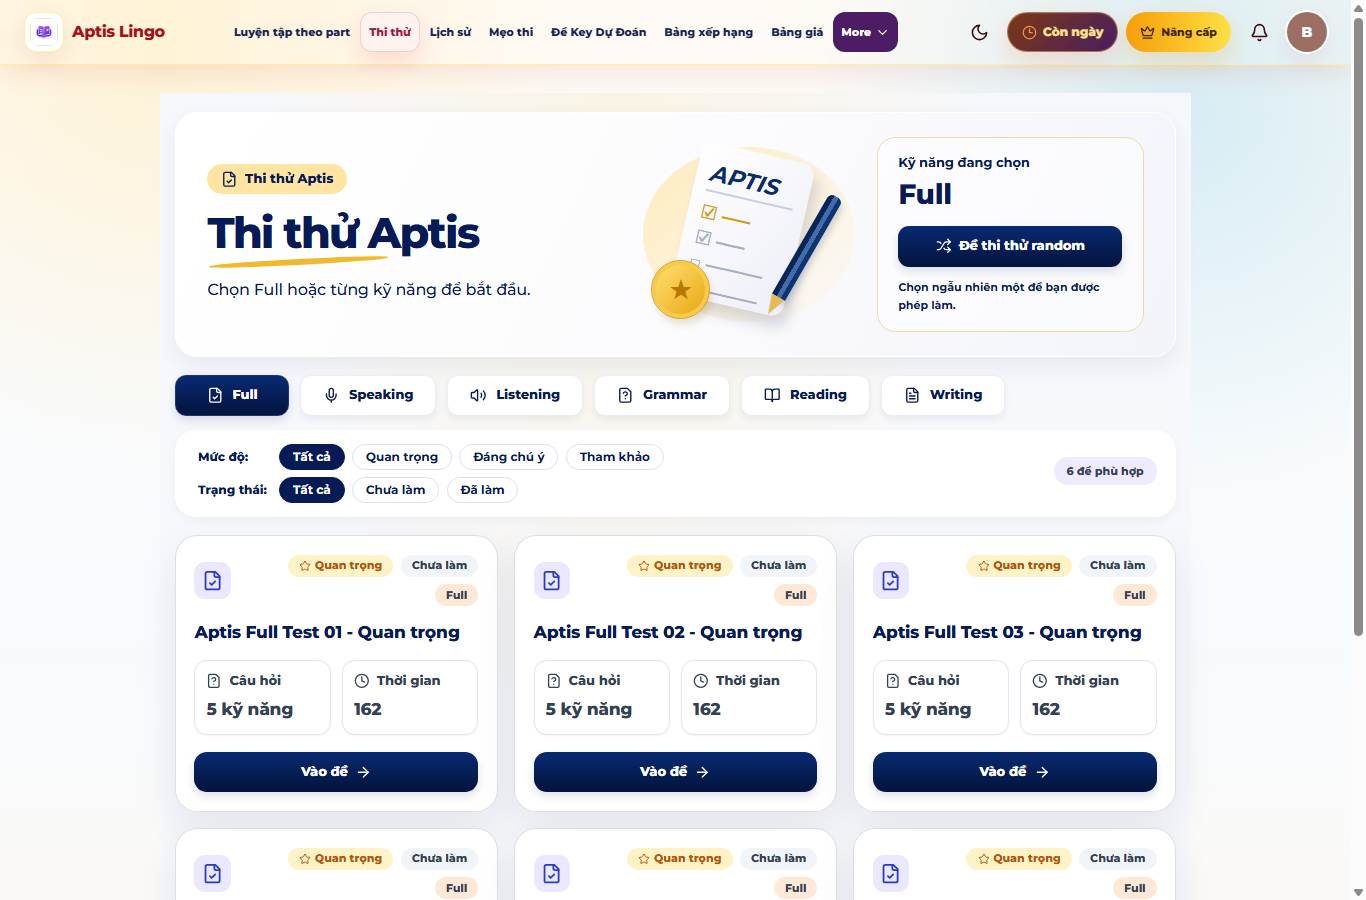
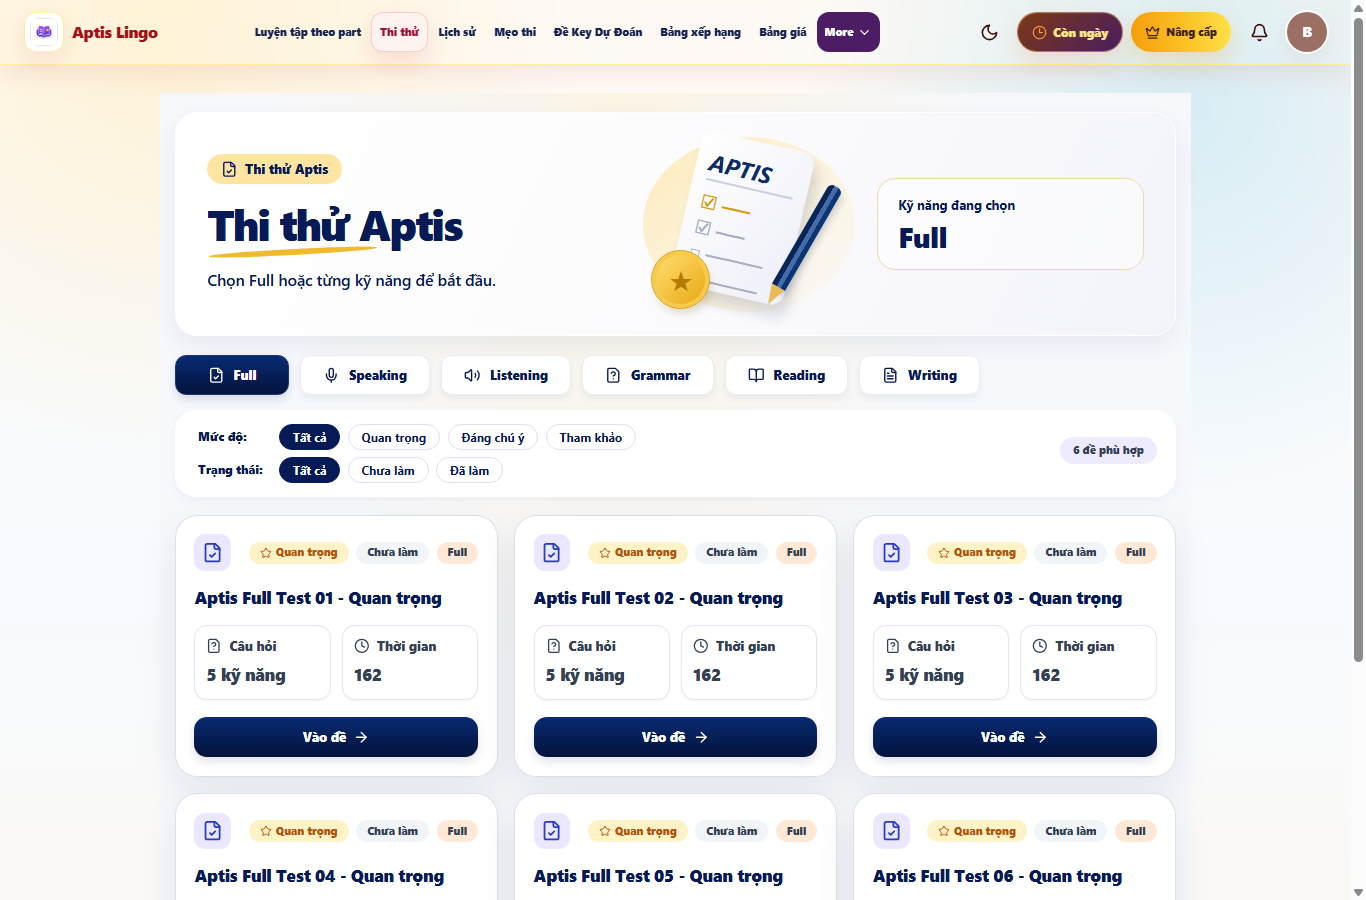
bangdiem

diff --git a/frontend/src/pages/student/MockTests.tsx b/frontend/src/pages/student/MockTests.tsx
@@ -46,7 +46,7 @@ import { Link, NavLink, useNavigate, useSearchParams } from 'react-router-dom';
 import { api, unwrap } from '../../api/client';
 import { useAuthStore } from '../../store/authStore';
 import type { MockTestResult, Submission, Question, SubscriptionResponse, Test } from '../../types';
-import { hasCompletedMockCard, mockCardPriority, mockPriorityLabels, selectFreePlacementCard, type MockPriority } from '../../utils/mockTestFilters';
+import { hasCompletedMockCard, mockCardPriority, mockPriorityLabels, readingPeopleWithNames, selectFreePlacementCard, type MockPriority } from '../../utils/mockTestFilters';
 import { getSubscriptionStatus, saveSubscriptionUntil } from '../../utils/subscription';
 import { repairUserText } from '../../utils/textRepair';
 import './mock-light.css';
@@ -2406,7 +2406,7 @@ function getReadingTestDataFromCard(card?: MockCard | null): ReadingTestData {
     ?? String(part3Rows[0]?.leftTitle ?? '').trim();
   const forumIntro = forumIntroText || undefined;
   const fallbackOpinion = fallbackReadingOpinion();
-  const parsedPeople = peopleFromReadingContext(context);
+  const parsedPeople = readingPeopleWithNames(peopleFromReadingContext(context), asStringArray(part3Rows[0]?.options), forumAnswers);
   const opinion = {
     people: parsedPeople.length > 0 ? parsedPeople : fallbackOpinion.people,
     questions: forumQuestions.length > 0 ? forumQuestions : fallbackOpinion.questions,
@@ -3141,7 +3141,7 @@ function scoreReadingAnswers(
     return question.correctOrder.filter((answer, answerIndex) => sameAnswer(userAnswers[answerIndex], answer)).length;
   });
   const cohesionCorrect = cohesionCorrectCounts.reduce((sum, count) => sum + count, 0);
-  const opinionCorrect = data.opinion.correctAnswers.filter((answer, index) => sameAnswer(opinionAnswers[index], answer)).length;
+  const opinionCorrect = data.opinion.correctAnswers.filter((answer, index) => sameAnswer(resolveOptionLabel(opinionAnswers[index] ?? '', data.opinion.people.map(person => person.label)), answer)).length;
   const longCorrect = data.long.correctAnswers.filter((answer, index) => sameAnswer(longAnswers[index], answer)).length;
   const gapTotal = data.gaps.length;
   const cohesionTotal = data.cohesion.reduce((sum, question) => sum + question.correctOrder.length, 0);
@@ -3194,7 +3194,7 @@ function savedReadingReview(data: ReadingTestData, gapAnswers: Record<number, st
       title: `Part ${questionIndex + 2} - Text Cohesion`,
       rows: question.correctOrder.map((answer, index) => savedReviewRow(`${question.title} - Vị trí ${index + 1}`, cohesionAnswers[questionIndex]?.[index], answer))
     })),
-    { title: 'Part 3 - Opinion Matching', rows: data.opinion.questions.map((question, index) => savedReviewRow(question, opinionAnswers[index], data.opinion.correctAnswers[index])) },
+    { title: 'Part 3 - Opinion Matching', rows: data.opinion.questions.map((question, index) => savedReviewRow(question, resolveOptionLabel(opinionAnswers[index] ?? '', data.opinion.people.map(person => person.label)), data.opinion.correctAnswers[index])) },
     { title: 'Part 4 - Long Reading', rows: data.long.correctAnswers.map((answer, index) => savedReviewRow(`Paragraph ${index + 1}`, longAnswers[index], resolveOptionLabel(answer, data.long.headings))) }
   ];
 }
@@ -8113,7 +8113,7 @@ function ReadingOpinion({ data, answers, bookmarkActive, showAnswer, timeRemaini
                 <p style={{ color: '#020817', fontSize: 17, lineHeight: '24px', fontWeight: 700, margin: 0 }}>
                   {index + 1}. {question}
                 </p>
-                <select value={answers[index] ?? ''} onChange={(event) => onAnswer(index, event.target.value)} style={{ height: 52, borderRadius: 14, border: '1px solid #dce3ee', backgroundColor: '#ffffff', padding: '0 16px', color: '#475569', fontSize: 18, outline: 'none' }}>
+                <select value={resolveOptionLabel(answers[index] ?? '', people.map(person => person.label))} onChange={(event) => onAnswer(index, event.target.value)} style={{ height: 52, borderRadius: 14, border: '1px solid #dce3ee', backgroundColor: '#ffffff', padding: '0 16px', color: '#475569', fontSize: 18, outline: 'none' }}>
                   <option value=""></option>
                   {people.map((person) => person.label).map((option) => (
                     <option key={option} value={option}>{option}</option>
@@ -8480,9 +8480,8 @@ function FullResult({
     { label: 'Grammar', score: grammarScore, band: null },
     { label: 'Overall', score: overallScore, band: overallCefr }
   ];
-  const writingCriteriaRows = (writing?.criteria ?? []).map((item) => ({ label: item.name, score: clampScore10(item.score) }));
-  const writingCorrections = normalizeWritingCorrections(writing?.corrections);
   const reportDate = new Intl.DateTimeFormat('vi-VN').format(new Date());
+  const writingCorrections = normalizeWritingCorrections(writing?.corrections);
 
   return (
     <main className="min-h-screen bg-[#eef2f8] px-4 py-8 sm:px-6 sm:py-12">
@@ -8507,92 +8506,49 @@ function FullResult({
               <ReportIdentity label="Mã kết quả" value={candidateReference} />
             </div>
 
-            <div className="mt-8 grid gap-8 lg:grid-cols-[1.05fr_0.95fr]">
-              <div className="overflow-x-auto">
-                <h2 className="mb-4 text-lg font-black text-[#25236b]">Bảng điểm kỹ năng</h2>
-                <table className="w-full min-w-[480px] border-collapse text-left">
-                  <thead><tr className="bg-[#25236b] text-white"><th className="p-3">Kỹ năng</th><th className="p-3 text-center">Điểm</th><th className="p-3 text-center">CEFR</th></tr></thead>
-                  <tbody>
-                    {skillRows.map((row) => <tr key={row.skill} className="border-b border-slate-200"><td className="p-3"><p className="m-0 font-bold text-slate-900">{row.skill}</p><p className="mt-1 text-xs text-slate-500">{row.note}</p></td><td className="p-3 text-center text-lg font-black text-[#25236b]">{row.score === null ? '--' : `${row.score}/50`}</td><td className="p-3 text-center text-lg font-black text-[#e52b50]">{row.cefr ?? '--'}</td></tr>)}
-                    <tr className="bg-slate-50"><td className="p-3 font-bold text-slate-900">Grammar & Vocabulary</td><td className="p-3 text-center text-lg font-black text-[#25236b]">{grammarScore}/50</td><td className="p-3" /></tr>
-                  </tbody>
-                </table>
-              </div>
-
-              <div>
-                <h2 className="mb-4 text-lg font-black text-[#25236b]">Hồ sơ CEFR</h2>
-                <div className="border border-slate-200 bg-slate-50 p-4">
-                  <RadarScoreChart items={chartColumns.map((column) => ({ label: column.label, score: column.score }))} maxScore={50} />
-                  <div className="mt-3 grid grid-cols-2 gap-2 text-xs font-bold text-slate-600 sm:grid-cols-3">
-                    {chartColumns.map((column) => (
-                      <span key={column.label} className="flex items-center justify-between gap-2 border border-slate-200 bg-white px-2 py-1">
-                        {column.label}
-                        <b className="text-[#25236b]">{column.score === null ? '--' : column.band ?? column.score}</b>
-                      </span>
-                    ))}
-                  </div>
+            <section className="mt-7 border border-[#25236b] bg-white p-4 sm:p-6" aria-label="Bảng kết quả CEFR">
+              <h2 className="m-0 border-b-2 border-[#25236b] pb-2 text-xl font-bold text-[#bc1235]">Overall CEFR level: {overallCefr ?? '--'}</h2>
+              <div className="mt-4 grid min-w-0 gap-6 md:grid-cols-2">
+                <div className="min-w-0">
+                  <h3 className="mb-3 text-xl font-bold text-[#25236b]">Scale score</h3>
+                  <table className="w-full border-collapse text-left text-sm text-slate-800">
+                    <thead><tr className="border-b-2 border-[#25236b]"><th className="pb-1 pr-2 font-bold">Skill name</th><th className="whitespace-nowrap pb-1 text-right font-bold">Skill score</th></tr></thead>
+                    <tbody>
+                      {skillRows.map(row => <tr key={row.skill} className="border-b border-[#a9aabd]"><td className="py-2 pr-2">{row.skill}</td><td className="whitespace-nowrap py-2 text-right">{row.score === null ? '--' : `${row.score}/50`}</td></tr>)}
+                      <tr className="border-b border-[#a9aabd]"><td className="py-2 pr-2">Final Scale Score</td><td className="whitespace-nowrap py-2 text-right">{completeScores ? `${totalScore}/200` : '--'}</td></tr>
+                      <tr className="border-b border-[#25236b]"><td className="py-2 pr-2">Grammar and Vocabulary</td><td className="whitespace-nowrap py-2 text-right">{grammarScore}/50</td></tr>
+                    </tbody>
+                  </table>
                 </div>
-                <div className="mt-5 grid grid-cols-2 gap-3"><FullResultStat label="Tổng điểm 4 kỹ năng" value={completeScores ? `${totalScore}/200` : '--'} /><FullResultStat label="Overall" value={overallCefr ?? '--'} /></div>
+                <div className="min-w-0">
+                  <h3 className="mb-3 text-xl font-bold text-[#25236b]">CEFR skill profile</h3>
+                  <CefrBarChart items={chartColumns.filter(column => column.label !== 'Grammar').map(column => ({ label: column.label, band: column.band }))} />
+                </div>
               </div>
-            </div>
+            </section>
 
             <p className="mt-7 border-t border-slate-200 pt-5 text-xs leading-5 text-slate-500">Kết quả luyện tập do Aptis Lingo phát hành để theo dõi tiến độ học. Đây không phải chứng chỉ Aptis ESOL chính thức. Điểm biên CEFR được xét thêm bằng điểm Grammar & Vocabulary.</p>
 
             {writing && (
               <section className="mt-8 border-t border-slate-200 pt-7">
-                <div className="flex flex-col gap-2 sm:flex-row sm:items-end sm:justify-between">
-                  <div>
-                    <h2 className="m-0 text-xl font-black text-[#25236b]">Chi tiết Writing AI</h2>
-                    <p className="mt-2 text-sm font-semibold leading-6 text-amber-50">{writing.summary}</p>
-                  </div>
-                  <div className="grid grid-cols-2 gap-2 text-center">
-                    <FullResultStat label="Writing" value={`${clampScore50(writing.overallScore)}/50`} />
-                    <FullResultStat label="CEFR" value={writing.cefrLevel} />
-                  </div>
-                </div>
-
-                {writingCriteriaRows.length > 0 && (
-                  <div className="mt-5 grid gap-4 lg:grid-cols-[1fr_320px]">
-                    <div className="border border-slate-200 bg-white p-4">
-                      <h3 className="m-0 text-base font-black text-slate-900">Bảng điểm tiêu chí</h3>
-                      <div className="mt-4 grid gap-3">
-                        {writingCriteriaRows.map((item) => (
-                          <div key={item.label}>
-                            <div className="flex items-center justify-between gap-3 text-sm font-bold">
-                              <span className="text-slate-900">{item.label}</span>
-                              <span className="text-[#e52b50]">{item.score}/10</span>
-                            </div>
-                            <div className="mt-2 h-2 overflow-hidden rounded-full bg-slate-200">
-                              <div className="h-full bg-[#e52b50]" style={{ width: `${item.score * 10}%` }} />
-                            </div>
-                          </div>
-                        ))}
-                      </div>
-                    </div>
-                    <div className="border border-slate-200 bg-slate-50 p-4">
-                      <h3 className="m-0 text-base font-black text-slate-900">Radar Writing</h3>
-                      <RadarScoreChart items={writingCriteriaRows} maxScore={10} />
-                    </div>
-                  </div>
-                )}
-
+                <h2 className="m-0 text-xl font-black text-[#25236b]">Nhận xét và chữa bài Writing</h2>
+                <p className="mt-2 break-words text-sm font-semibold leading-6 text-slate-600">{writing.summary}</p>
                 {writing.parts?.length > 0 && (
                   <div className="mt-5 grid gap-3 sm:grid-cols-2">
-                    {writing.parts.map((part) => (
-                      <div key={part.title} className="border border-slate-200 bg-white p-4">
-                        <p className="m-0 text-sm font-black text-slate-900">{part.title} - {part.score}/50</p>
+                    {writing.parts.map(part => (
+                      <div key={part.title} className="rounded-xl border border-slate-200 bg-white p-4">
+                        <h3 className="m-0 text-sm font-black text-slate-900">{part.title}</h3>
                         <p className="mt-2 text-sm leading-6 text-slate-600">{part.feedback}</p>
                       </div>
                     ))}
                   </div>
                 )}
-
                 {writingCorrections.length > 0 && (
                   <div className="mt-5">
-                    <h3 className="m-0 text-base font-black text-slate-900">Câu sai được highlight và gợi ý sửa</h3>
+                    <h3 className="m-0 text-base font-black text-slate-900">Câu sai và gợi ý sửa</h3>
                     <div className="mt-3 grid gap-3">
                       {writingCorrections.map((correction, index) => (
-                        <div key={`${correction.original ?? correction.explanation}-${index}`} className="border border-orange-200 bg-orange-50 p-4">
+                        <div key={index} className="rounded-xl border border-orange-200 bg-orange-50 p-4">
                           <p className="m-0 text-sm font-black text-orange-800">Lỗi {index + 1}{correction.partTitle ? ` - ${correction.partTitle}` : ''}</p>
                           {correction.original && <p className="mt-2 text-sm leading-6 text-orange-900">{highlightWrongSentence(correction.original)}</p>}
                           {correction.correction && <p className="mt-2 text-sm leading-6 text-green-700">Gợi ý: <strong>{correction.correction}</strong></p>}
@@ -8602,22 +8558,18 @@ function FullResult({
                     </div>
                   </div>
                 )}
-
                 {writing.suggestedAnswer?.trim() && (
-                  <div className="mt-5 border border-blue-200 bg-blue-50 p-4">
+                  <div className="mt-5 rounded-xl border border-blue-200 bg-blue-50 p-4">
                     <h3 className="m-0 text-base font-black text-slate-900">Bài gợi ý sau khi sửa</h3>
                     <div className="mt-3 grid gap-3">
                       {formatSuggestedWritingAnswer(writing.suggestedAnswer).map((block, index) => (
-                        <p key={`${block.title}-${index}`} className="m-0 text-sm leading-6 text-blue-900 whitespace-pre-wrap">
-                          {block.title && <strong>{block.title}: </strong>}{block.text}
-                        </p>
+                        <p key={index} className="m-0 whitespace-pre-wrap break-words text-sm leading-6 text-blue-900">{block.title && <strong>{block.title}: </strong>}{block.text}</p>
                       ))}
                     </div>
                   </div>
                 )}
               </section>
             )}
-
           <div className="mt-8 flex flex-wrap justify-center gap-3">
             <button className="mock-result-exit-button" type="button" onClick={onExit} style={{ height: 44, display: 'inline-flex', alignItems: 'center', gap: 10, borderRadius: 12, border: '1px solid #dce3ee', backgroundColor: '#ffffff', padding: '0 18px', color: '#111827', fontSize: 16, fontWeight: 700 }}>
               <ArrowLeft size={18} />
@@ -8640,10 +8592,46 @@ function ReportIdentity({ label, value }: { label: string; value: string }) {
 
 function FullResultStat({ label, value }: { label: string; value: string }) {
   return (
-    <div className="border border-slate-200 bg-slate-50 p-4 text-center">
-      <p className="m-0 text-2xl font-black text-[#25236b]">{value}</p>
+    <div className="min-w-0 rounded-xl border border-slate-200 bg-slate-50 px-3 py-4 text-center">
+      <p className="m-0 whitespace-nowrap text-2xl font-black text-[#25236b]">{value}</p>
       <p className="mt-2 text-xs text-slate-500">{label}</p>
     </div>
+  );
+}
+
+function CefrBarChart({ items }: { items: { label: string; band: AptisBand | null }[] }) {
+  const levels = ['A0', 'A1', 'A2', 'B1', 'B2', 'C1'];
+  const left = 40;
+  const top = 42;
+  const bottom = 242;
+  const step = 40;
+  const columnWidth = 72;
+  return (
+    <svg viewBox="0 0 420 302" className="block h-auto w-full" role="img" aria-label="Hồ sơ CEFR: biểu đồ cột Listening, Reading, Speaking, Writing và Overall">
+      <title>CEFR skill profile</title>
+      <desc>{items.map(item => `${item.label}: ${item.band ?? 'Chưa có kết quả'}`).join('; ')}</desc>
+      <text x="0" y="18" fill="#25236b" fontSize="15" fontWeight="700">CEFR grade</text>
+      {levels.map((level, index) => {
+        const y = bottom - index * step;
+        return <g key={level}>
+          <line x1={left} x2="408" y1={y} y2={y} stroke={index === 0 ? '#25236b' : '#cbd5e1'} strokeWidth={index === 0 ? 1.5 : 1} />
+          <text x="0" y={y + 4} fill="#475569" fontSize="13">{level}</text>
+        </g>;
+      })}
+      {items.map((item, index) => {
+        const level = item.band ? levels.indexOf(item.band) : 0;
+        const height = Math.max(0, level) * step;
+        const x = left + index * columnWidth + 18;
+        return <g key={item.label}>
+          <title>{item.label}: {item.band ?? 'Chưa có kết quả'}</title>
+          {height > 0 && <rect x={x} y={bottom - height} width="34" height={height} fill="#e50935" />}
+          <text x={x + 17} y={Math.max(top - 10, bottom - height - 9)} textAnchor="middle" fill="#25236b" fontSize="14" fontWeight="700">{item.band ?? '--'}</text>
+          <text x={x + 17} y="263" textAnchor="middle" fill="#475569" fontSize="11">
+            {item.label === 'Overall' ? <><tspan x={x + 17}>Overall</tspan><tspan x={x + 17} dy="15">CEFR grade</tspan></> : item.label}
+          </text>
+        </g>;
+      })}
+    </svg>
   );
 }
 
@@ -8902,7 +8890,7 @@ function ReadingReview({
           <ReadingAnswerSection title="Part 3 - Opinion Matching">
             {data.opinion.questions.map((question, index) => {
               const answer = data.opinion.correctAnswers[index] ?? '';
-              const user = opinionAnswers[index] || 'Chưa chọn';
+              const user = resolveOptionLabel(opinionAnswers[index] ?? '', data.opinion.people.map(person => person.label)) || 'Chưa chọn';
               return (
                 <ReadingAnswerRow
                   key={`${question}-${index}`}

diff --git a/frontend/src/utils/mockTestFilters.ts b/frontend/src/utils/mockTestFilters.ts
@@ -2,6 +2,21 @@ import type { MockTestResult, Submission } from '../types';
 
 export type MockPriority = 'IMPORTANT' | 'NOTABLE' | 'REFERENCE';
 
+export function readingPeopleWithNames<T extends { label: string; text: string }>(people: T[], options: string[], answers: string[]): T[] {
+  const names = options.filter(value => value.trim() && !/^[A-D]$/i.test(value.trim()));
+  if (names.length === people.length && people.every(person => /^[A-D]$/.test(person.label))) {
+    return people.map(person => ({ ...person, label: names[person.label.charCodeAt(0) - 65] ?? person.label }));
+  }
+  const answerNames = [...new Set(answers.filter(value => value.trim() && !/^[A-D]$/i.test(value.trim())))];
+  // Some older imports keep letter headings but store the names only in the answer key.
+  // Recover only when every letter has exactly one matching name.
+  if (people.length && people.every(person => /^[A-D]$/.test(person.label)
+    && answerNames.filter(name => name[0]?.toUpperCase() === person.label).length === 1)) {
+    return people.map(person => ({ ...person, label: answerNames.find(name => name[0]?.toUpperCase() === person.label)! }));
+  }
+  return people;
+}
+
 export function selectFreePlacementCard<T extends { skill: string; ready: boolean; accessible?: boolean; accessOrder?: number; title: string }>(
   cards: T[], hasFullData: (card: T) => boolean
 ): T | null {
